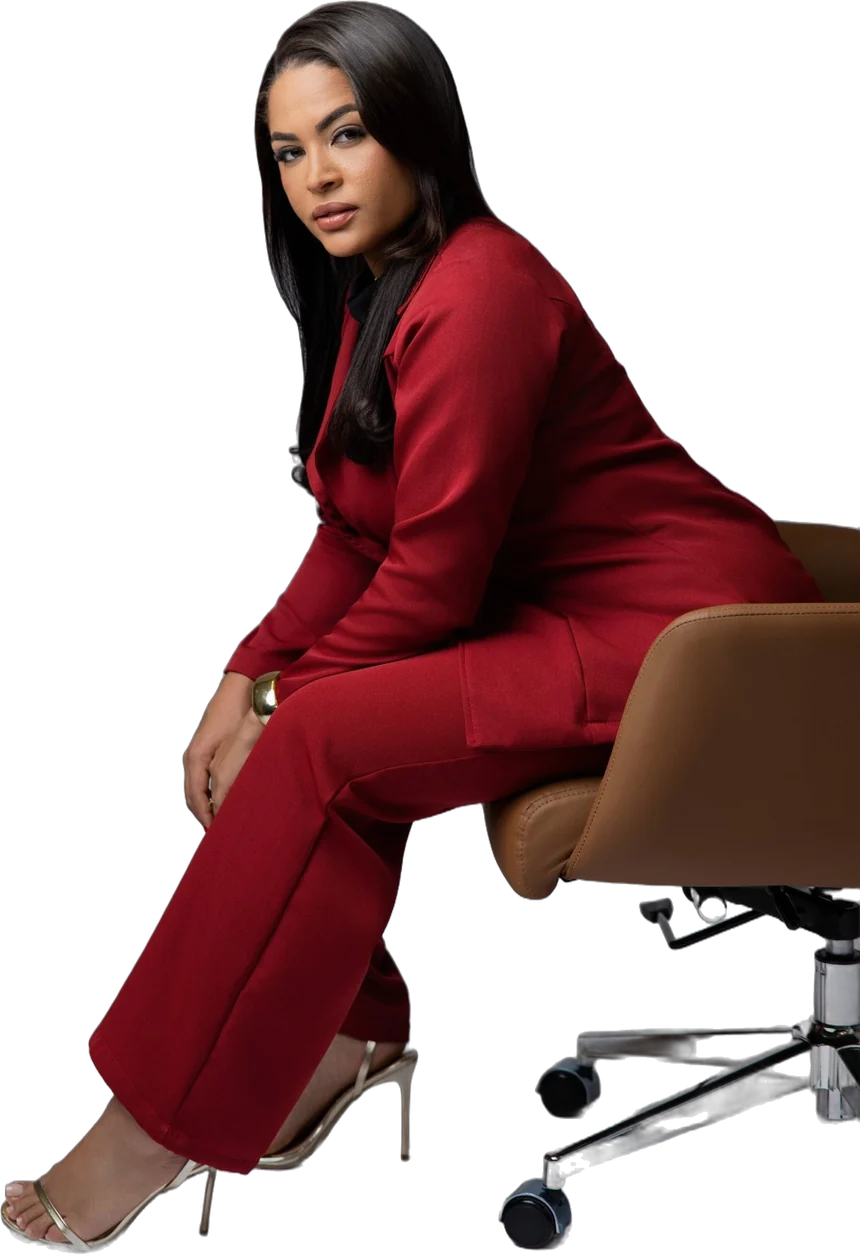
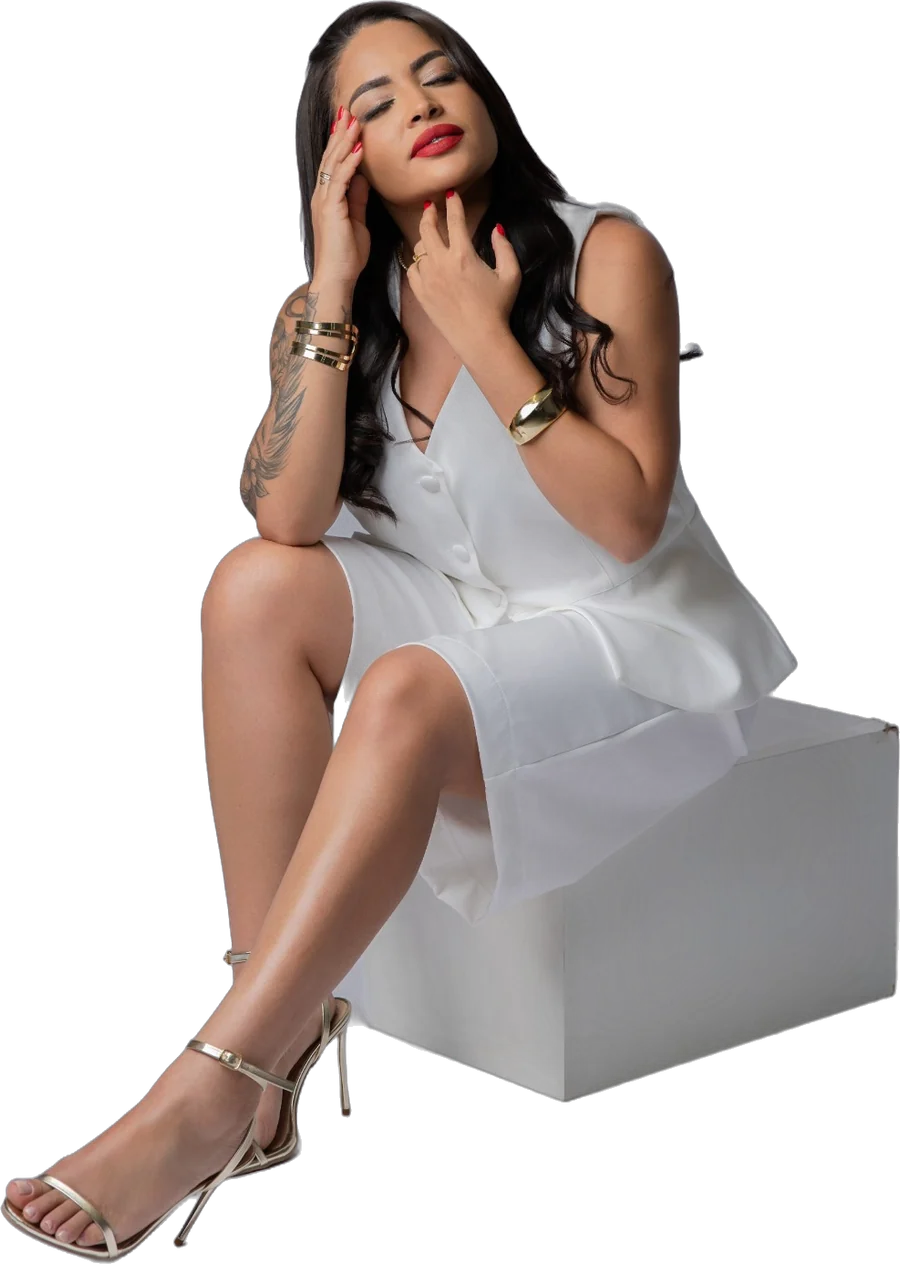
Nova foto principal da abertura, sem fundo
Claude-Session: https://claude.ai/code/session_019kJswqbpo5s1rZNF4ayFF8

diff --git a/index.html b/index.html
@@ -638,7 +638,7 @@ h2 em,h1 em{font-weight:400!important}
 .portrait{width:min(520px,100%);position:relative;isolation:isolate}
 .portrait::after{content:"";position:absolute;z-index:-1;left:6%;right:2%;top:8%;bottom:6%;border-radius:50% 50% 46% 46%/42% 42% 58% 58%;background:radial-gradient(circle at 45% 35%,#F3DCCB 0%,#E9CDB8 45%,rgba(233,205,184,0) 72%)}
 .portrait .frame{aspect-ratio:auto;border-radius:0;box-shadow:none;background:none;overflow:visible}
-.portrait .frame img{width:100%;height:auto;object-fit:contain;filter:none;-webkit-mask-image:linear-gradient(to left,transparent 0,#000 16%);mask-image:linear-gradient(to left,transparent 0,#000 16%)}
+.portrait .frame img{width:100%;height:auto;object-fit:contain;filter:none;-webkit-mask-image:none;mask-image:none}
 .portrait .plate{left:0;top:6%;bottom:auto}
 @media(max-width:920px){
   .portrait{max-width:380px}
@@ -731,7 +731,7 @@ h2 em,h1 em{font-weight:400!important}
       </ul>
     </div>
     <div class="portrait">
-      <div class="frame"><img src="img/jessica-hero-recorte.webp" alt="Jéssica Sousa sentada em poltrona, de terninho vermelho" width="860" height="1316"></div>
+      <div class="frame"><img src="img/jessica-hero-recorte.webp" alt="Jéssica Sousa, de branco, sentada" width="900" height="1264"></div>
       <div class="plate"><b>Jéssica Sousa</b><small>Criadora do Método Clean Pro</small></div>
     </div>
   </div>
